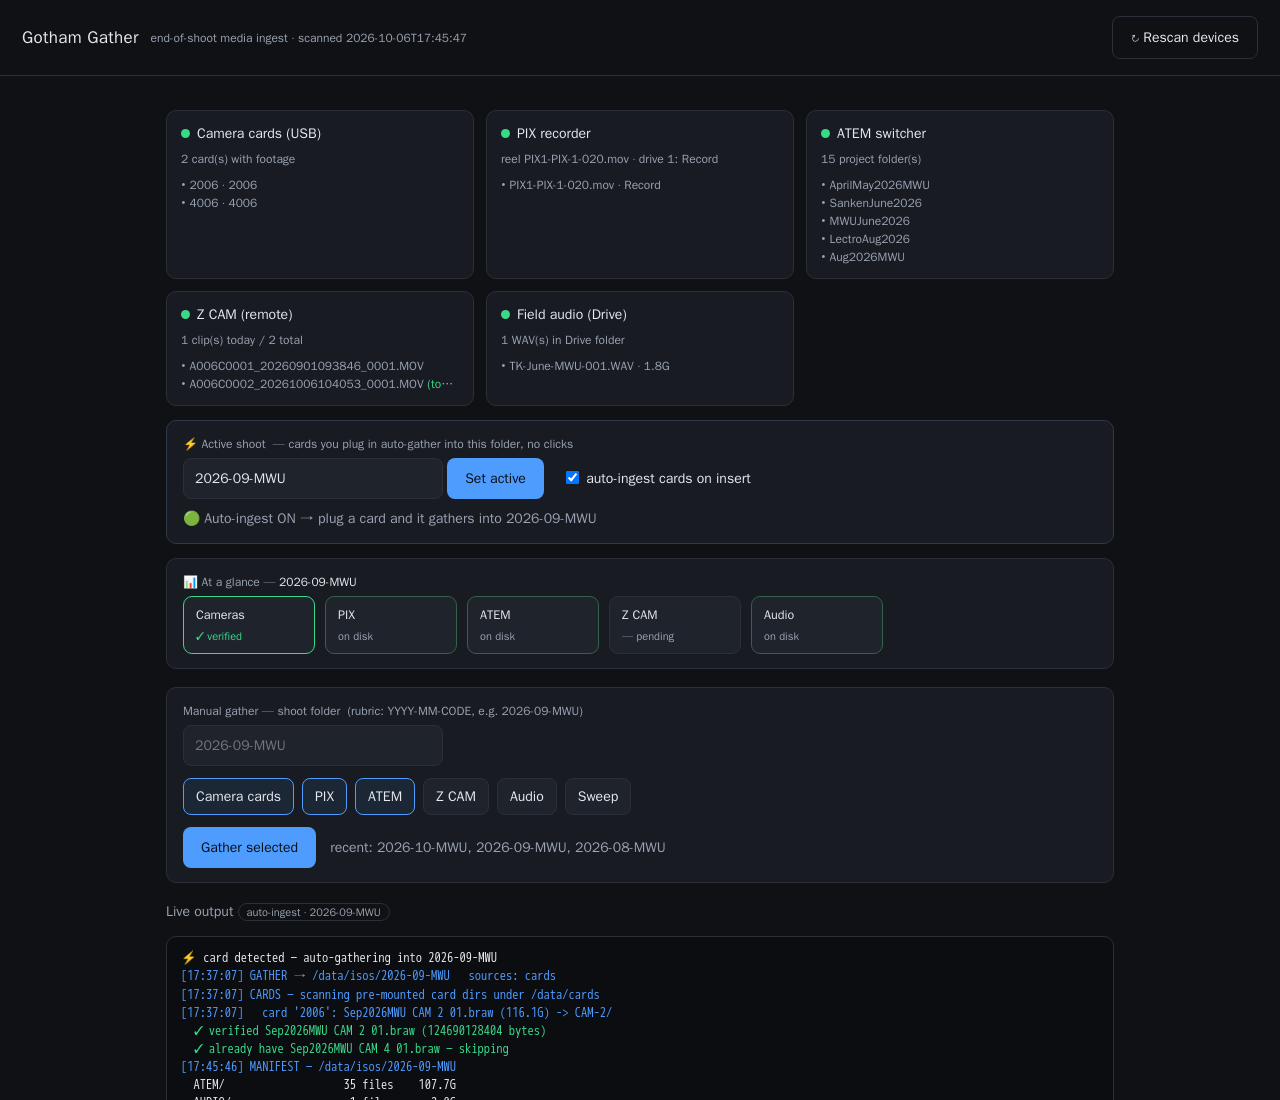
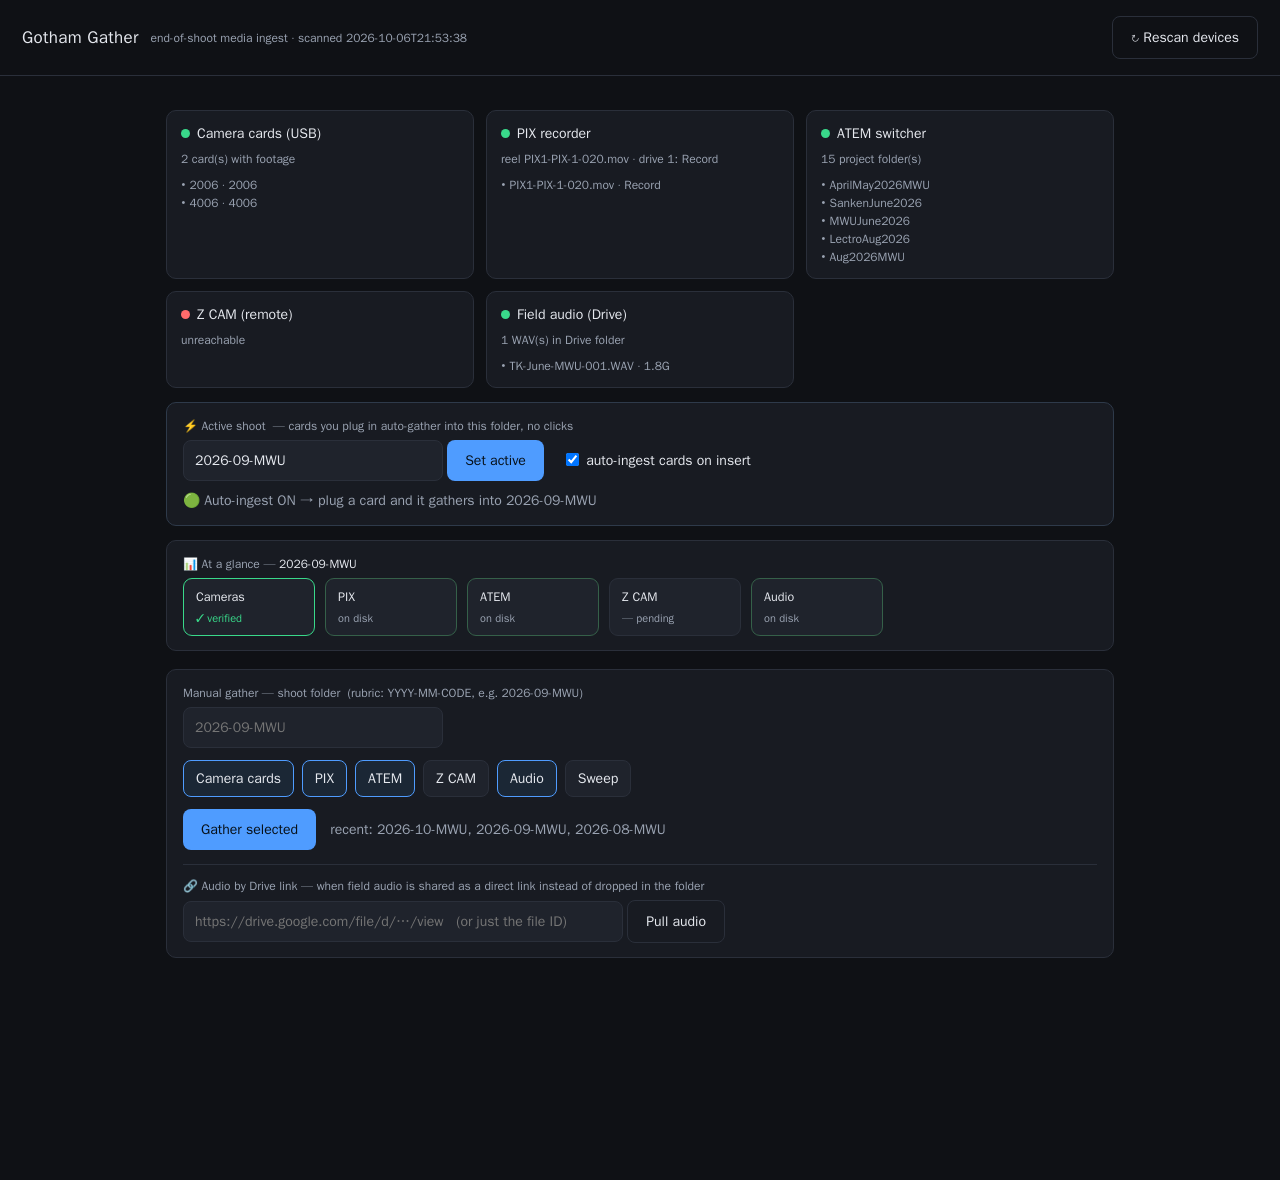
Add "paste a Drive link" audio pull + UI, refresh screenshot/docs
- Backend: POST /api/audio-link extracts the Drive file ID from a share link (or bare
  ID) and pulls it straight into <shoot>/AUDIO/ via rclone backend copyid, as a tracked
  job with status (refactored start_gather -> _spawn_job with trust_rc).
- UI: "🔗 Audio by Drive link" field under Manual gather; streams the pull live.
- EZ-INSTRUCTIONS: documented the in-app link pull; refreshed dashboard screenshot.

Claude-Session: https://claude.ai/code/session_01Cz5RB8XBjtK8XiFXVeYSX3

diff --git a/app/static/index.html b/app/static/index.html
@@ -83,6 +83,13 @@
     <div class="srcs" id="srcs"></div>
     <button id="run">Gather selected</button>
     <span id="hint" class="muted" style="margin-left:10px"></span>
+
+    <div style="margin-top:14px; border-top:1px solid var(--line); padding-top:12px">
+      <label class="lbl">🔗 Audio by Drive link <span class="muted">— when field audio is shared as a direct link instead of dropped in the folder</span></label>
+      <input type="text" id="audiolink" placeholder="https://drive.google.com/file/d/…/view   (or just the file ID)" autocomplete="off" style="width:min(440px,100%)">
+      <button id="pullaudio" class="ghost">Pull audio</button>
+      <span id="audiohint" class="muted" style="margin-left:8px"></span>
+    </div>
   </div>
 
   <div id="logwrap" style="display:none">
@@ -183,21 +190,39 @@ function paintLine(line){
   const log=$("#log"); log.appendChild(span); log.scrollTop=log.scrollHeight;
 }
 
+function streamJob(job_id, label, onEnd){
+  $("#logwrap").style.display="block"; $("#jobpill").textContent=label;
+  const es=new EventSource(`/api/jobs/${job_id}/events`);
+  es.onmessage=e=>paintLine(e.data);
+  es.addEventListener("done",e=>{ paintLine("— finished ("+e.data+") —"); es.close();
+    loadStatus(); pollGlance(); if(onEnd) onEnd(); });
+  es.onerror=()=>{ es.close(); if(onEnd) onEnd(); };
+}
 async function run(){
   const shoot=$("#shoot").value.trim();
   if(!shoot){ $("#hint").textContent="enter a shoot name"; return; }
   if(sel.size===0){ $("#hint").textContent="pick at least one source"; return; }
-  $("#run").disabled=true; $("#logwrap").style.display="block"; $("#log").innerHTML="";
+  $("#run").disabled=true; $("#log").innerHTML="";
   const r=await fetch("/api/gather",{method:"POST",headers:{"content-type":"application/json"},
     body:JSON.stringify({shoot,sources:[...sel]})});
-  if(!r.ok){ paintLine("✗ "+(await r.text())); $("#run").disabled=false; return; }
+  if(!r.ok){ $("#logwrap").style.display="block"; paintLine("✗ "+(await r.text())); $("#run").disabled=false; return; }
   const {job_id}=await r.json();
-  $("#jobpill").textContent="job "+job_id+" · "+shoot;
-  const es=new EventSource(`/api/jobs/${job_id}/events`);
-  es.onmessage=e=>paintLine(e.data);
-  es.addEventListener("done",e=>{ paintLine("— finished ("+e.data+") —"); es.close();
-    $("#run").disabled=false; loadStatus(); });
-  es.onerror=()=>{ es.close(); $("#run").disabled=false; };
+  streamJob(job_id, "job "+job_id+" · "+shoot, ()=>{ $("#run").disabled=false; });
+}
+async function pullAudio(){
+  const shoot=$("#shoot").value.trim() || activeShootVal;
+  const link=$("#audiolink").value.trim();
+  if(!shoot){ $("#audiohint").textContent="set a shoot name (above, or the Active shoot)"; return; }
+  if(!link){ $("#audiohint").textContent="paste a Drive link or file ID"; return; }
+  $("#pullaudio").disabled=true; $("#audiohint").textContent="pulling…";
+  const r=await fetch("/api/audio-link",{method:"POST",headers:{"content-type":"application/json"},
+    body:JSON.stringify({shoot,link})});
+  $("#pullaudio").disabled=false;
+  if(!r.ok){ $("#audiohint").textContent="✗ "+(await r.text()); return; }
+  const {job_id,file_id}=await r.json();
+  $("#audiohint").textContent="pulling "+file_id.slice(0,10)+"… → "+shoot+"/AUDIO";
+  $("#log").innerHTML="";
+  streamJob(job_id, "audio link · "+shoot);
 }
 
 // ---- Active shoot / zero-click auto-ingest ----
@@ -253,6 +278,7 @@ setInterval(()=>{ pollCards(); loadActive(); pollGlance(); }, 5000);
 
 $("#refresh").onclick=loadStatus;
 $("#run").onclick=run;
+$("#pullaudio").onclick=pullAudio;
 srcChips(); loadStatus(); loadActive(); pollGlance();
 </script>
 </body>

diff --git a/app/main.py b/app/main.py
@@ -17,6 +17,7 @@ from . import detect
 APP_DIR = Path(__file__).parent
 GATHER_SH = os.environ.get("GATHER_SH", str(APP_DIR.parent / "bin" / "gather.sh"))
 SHARE = detect.SHARE
+RCLONE_REMOTE = detect.RCLONE_REMOTE
 VALID_SOURCES = {"cards", "pix", "atem", "zcam", "audio", "sweep", "pixeft", "pixrec"}
 SHOOT_RE = re.compile(r"^[A-Za-z0-9][A-Za-z0-9._-]{0,63}$")
 
@@ -101,12 +102,14 @@ def _disk_present(shoot: str, src: str) -> bool:
     return False
 
 
-async def start_gather(shoot: str, sources: list[str]) -> str:
-    """Launch gather.sh for shoot+sources as a tracked job; return its id."""
+async def _spawn_job(shoot: str, sources: list[str], cmd: list[str],
+                     trust_rc: bool = False) -> str:
+    """Run `cmd` as a tracked job, streaming output and tracking per-source status.
+    trust_rc=True marks the source verified on a clean exit (for a plain rclone pull
+    that doesn't print the engine's own ✓ verified line)."""
     job_id = uuid.uuid4().hex[:8]
     proc = await asyncio.create_subprocess_exec(
-        "bash", GATHER_SH, shoot, *sources,
-        stdout=asyncio.subprocess.PIPE, stderr=asyncio.subprocess.STDOUT)
+        *cmd, stdout=asyncio.subprocess.PIPE, stderr=asyncio.subprocess.STDOUT)
     job = {"proc": proc, "lines": [], "done": False, "rc": None,
            "shoot": shoot, "sources": sources, "started": time.time()}
     JOBS[job_id] = job
@@ -158,12 +161,19 @@ async def start_gather(shoot: str, sources: list[str]) -> str:
         for s in sources:   # finalize anything still 'copying' we never saw a ✓ for
             if s in STATUS_SOURCES and shoot_status(shoot).get(s, {}).get("state") == "copying":
                 present = _disk_present(shoot, s)
-                _set_src(shoot, s, state=("present" if present else "pending"),
-                         detail=("on disk" if present else "nothing gathered"))
+                if trust_rc and job["rc"] == 0 and present:
+                    _set_src(shoot, s, state="verified", pct=100, detail="done")
+                else:
+                    _set_src(shoot, s, state=("present" if present else "pending"),
+                             detail=("on disk" if present else "nothing gathered"))
         _persist_status(shoot)
 
     asyncio.create_task(pump())
     return job_id
+
+
+async def start_gather(shoot: str, sources: list[str]) -> str:
+    return await _spawn_job(shoot, sources, ["bash", GATHER_SH, shoot, *sources])
 
 
 @app.get("/api/status")
@@ -210,6 +220,30 @@ async def gather(payload: dict):
         raise HTTPException(400, "pick at least one valid source")
     job_id = await start_gather(shoot, sources)
     return {"job_id": job_id, "shoot": shoot, "sources": sources}
+
+
+_DRIVE_ID = re.compile(r"[A-Za-z0-9_-]{25,}")
+
+@app.post("/api/audio-link")
+async def audio_link(payload: dict):
+    """Pull one Google Drive file (by share link or ID) straight into <shoot>/AUDIO/.
+    For when field audio is shared as a direct link instead of dropped in the folder."""
+    shoot = (payload or {}).get("shoot", "").strip()
+    link = (payload or {}).get("link", "").strip()
+    if not SHOOT_RE.match(shoot):
+        raise HTTPException(400, "invalid shoot name")
+    m = _DRIVE_ID.search(link)
+    if not m:
+        raise HTTPException(400, "couldn't find a Drive file ID in that link")
+    fid = m.group(0)
+    dest = os.path.join(SHARE, shoot, "AUDIO") + "/"
+    os.makedirs(dest, exist_ok=True)
+    job_id = await _spawn_job(
+        shoot, ["audio"],
+        ["rclone", "backend", "copyid", f"{RCLONE_REMOTE}:", fid, dest,
+         "-P", "--stats", "2s", "--stats-one-line"],
+        trust_rc=True)
+    return {"job_id": job_id, "file_id": fid}
 
 
 @app.get("/api/active-shoot")

diff --git a/EZ-INSTRUCTIONS.md b/EZ-INSTRUCTIONS.md
@@ -12,7 +12,9 @@ Quick reference for running and maintaining the app. Full deploy details are in
 ![Gotham Gather dashboard](docs/img/dashboard.png)
 
 *The dashboard: device status cards up top, the ⚡ Active-shoot auto-ingest banner, the
-📊 At-a-glance strip (pending → copying → ✓ verified per source), and the live gather log.*
+📊 At-a-glance strip (pending → copying → ✓ verified per source), the manual gather, and
+the 🔗 Audio-by-Drive-link field. (Z CAM shows red here only because that remote camera
+is powered off; green = reachable.)*
 
 ---
 
@@ -51,11 +53,12 @@ git push    # origin = https://github.com/Gotham-Sound/gotham-gather.git
 - **Normal:** TK uploads WAVs to the shared Drive folder
   (`1t8Bm5MCO_I64Z3ebDugy_rciigizeB81`). Run the **Audio** source — it grabs only the
   recent ones (last 72h), not old shoots'.
-- **One-off link:** if TK shares a *direct link* instead, pull it by file ID:
-  ```
-  rclone backend copyid gdrive: <FILE_ID> "/mnt/user/isos/<shoot>/AUDIO/"
-  ```
-  (`<FILE_ID>` is the long string in the Drive URL `/file/d/<FILE_ID>/view`.)
+- **Paste a Drive link (in the app):** if TK shares a *direct link* instead of using the
+  folder, paste it into the **🔗 Audio by Drive link** field (under Manual gather), make
+  sure the shoot name is set, and click **Pull audio**. It extracts the file ID and pulls
+  the file straight into `<shoot>/AUDIO/` with live status.
+  *CLI equivalent:* `rclone backend copyid gdrive: <FILE_ID> "/mnt/user/isos/<shoot>/AUDIO/"`
+  (`<FILE_ID>` is the long string in a Drive URL `/file/d/<FILE_ID>/view`).
 
 ---
 
